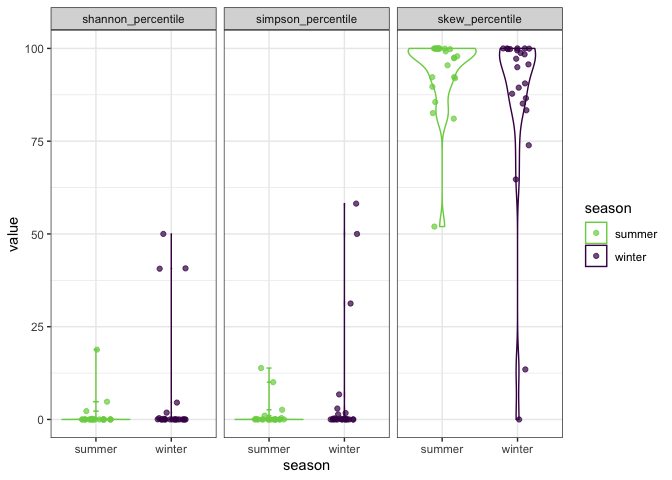
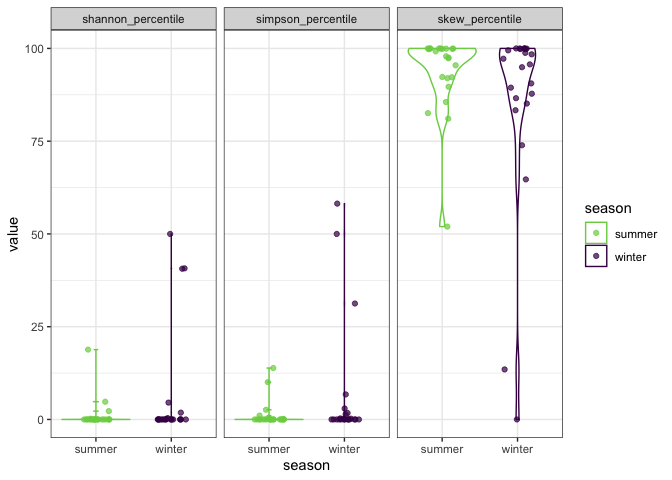
rerender

diff --git a/analysis/reports/dis.md b/analysis/reports/dis.md
@@ -42,37 +42,38 @@ Diversity index report
 
 ![](dis_files/figure-markdown_github/skewness%20percentile%20hist-1.png)
 
-### Sensitivity of percentile to adding singletons
-
-    ## Warning: Removed 22 rows containing missing values (geom_point).
-
-![](dis_files/figure-markdown_github/singletons%201to1-1.png)
-
-Is the amount of percentile change linked to the number of elements we got from the FS?
-
-    ## Loading in data version 1.127.0
-    ## Loading in data version 1.127.0
-
-    ## Warning: Removed 22 rows containing non-finite values (stat_boxplot).
-
-![](dis_files/figure-markdown_github/percentile%20change%20v%20fs%20size-1.png)
-
-    ## Warning: Removed 22 rows containing missing values (geom_point).
-
-![](dis_files/figure-markdown_github/percentile%20change%20v%20fs%20size-2.png)![](dis_files/figure-markdown_github/percentile%20change%20v%20fs%20size-3.png)![](dis_files/figure-markdown_github/percentile%20change%20v%20fs%20size-4.png)
+Simpson's vs. skewness percentile values
+----------------------------------------
 
     ## Warning: Removed 3 rows containing missing values (geom_point).
 
 ![](dis_files/figure-markdown_github/do%20simpson%20and%20skewness%20give%20the%20same%20answers-1.png)
 
+#### Zoomed to the very weirdest
+
+    ## Scale for 'x' is already present. Adding another scale for 'x', which
+    ## will replace the existing scale.
+
+    ## Scale for 'y' is already present. Adding another scale for 'y', which
+    ## will replace the existing scale.
+
     ## Warning: Removed 12 rows containing missing values (geom_point).
 
-![](dis_files/figure-markdown_github/do%20simpson%20and%20skewness%20give%20the%20same%20answers-2.png)
+![](dis_files/figure-markdown_github/simp%20skew%20zoomed-1.png)
+
+    ## [1] "How often is the Simpson percentile 0?"
 
     ## [1] 54
 
+    ## [1] "How often is the skew percentile 100?"
+
     ## [1] 14
 
-There's *some* relationship, but Simpson's drives to zero much earlier than the skewness percentile gets to 100. This squares with violin plots from earlier. Simpson's is not as sensitive/nuanced as the skewness is.
+There's *some* relationship, but Simpson's drives to zero much earlier than the skewness percentile gets to 100. This squares with violin plots from earlier. Simpson's is more sensitive/less nuanced than skewness.
 
-![](dis_files/figure-markdown_github/do%20simpsons%20and%20skew%20give%20QUALITATIVELY%20same%20conclusions-1.png) Green is outliers. The Simpson *non-*outliers are a subset of the skew *non*-outliers. Distinguishing between a 5% threshold and a 2.5% threshold for outliers (valuely one-sided v two-sided - but these are always one-sided) only changes one point.
+Would our conclusions change using Simpson's vs. skewness?
+----------------------------------------------------------
+
+![](dis_files/figure-markdown_github/do%20simpsons%20and%20skew%20give%20QUALITATIVELY%20same%20conclusions-1.png)
+
+Orange is outliers. The Simpson *non-*outliers are a subset of the skew *non*-outliers. Distinguishing between a 5% threshold and a 2.5% threshold for outliers (vaguely one-sided v two-sided - but these are always one-sided) only changes one point.
